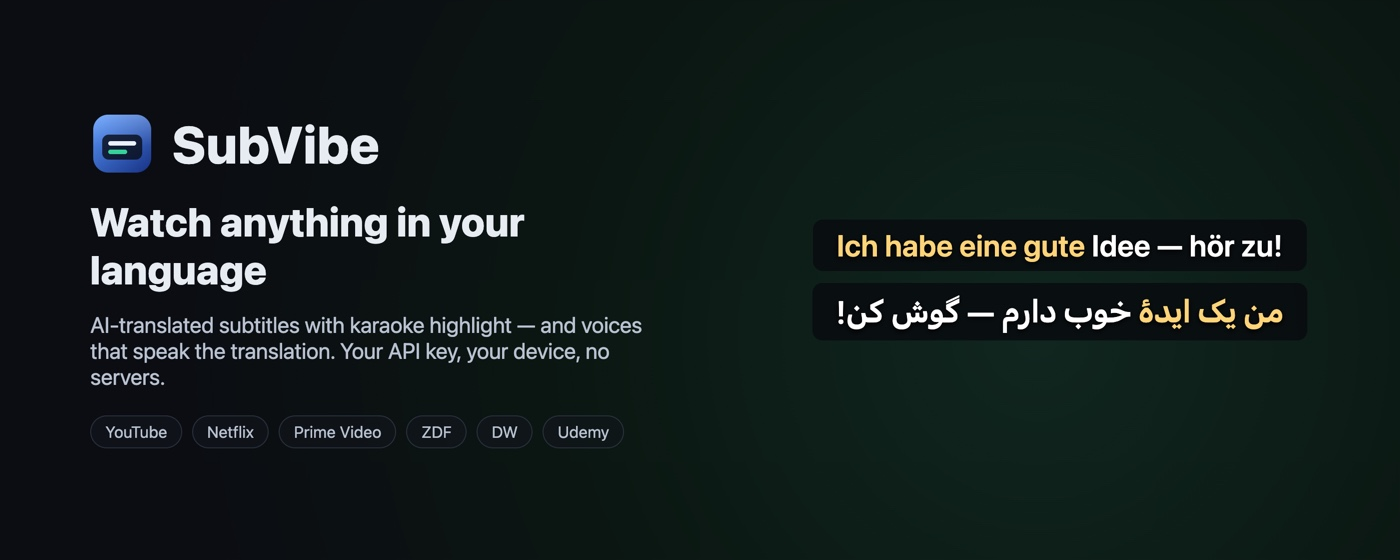
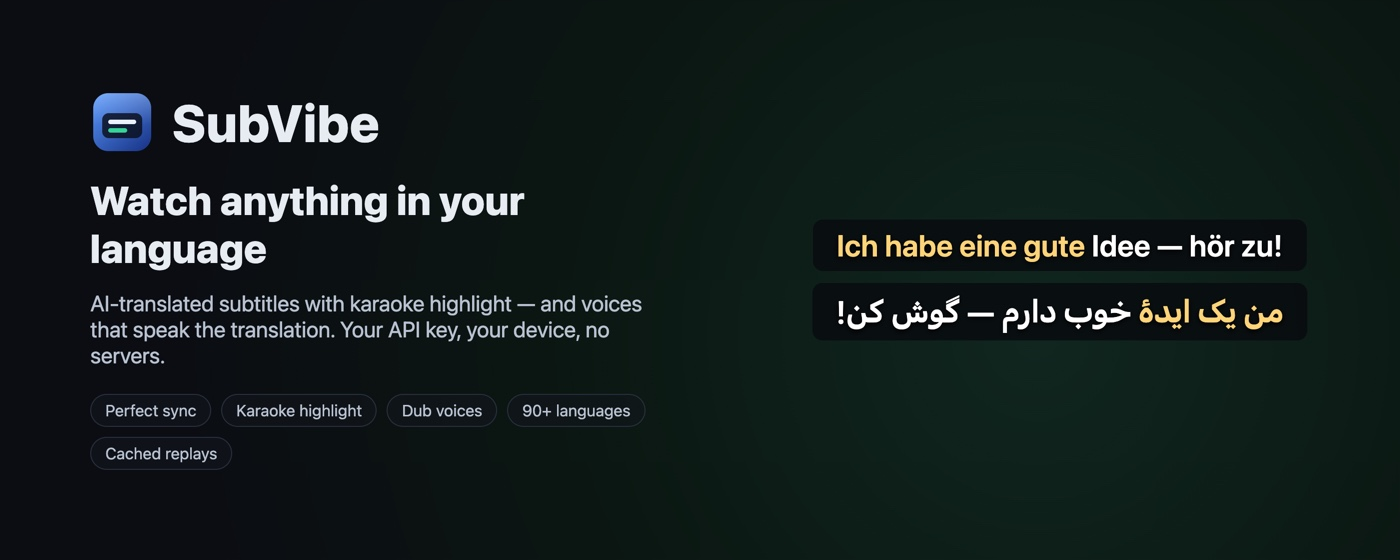
The store said Yellow Argon: the supported-sites enumeration read as keyword spam. The listing description now lives in the repo with a one-mention-per-brand house rule baked into its header, and the marquee tile trades its six site chips for feature chips — regenerated at exact 1400x560

Changed region(s): [[0.0614, 0.1518, 0.4607, 0.85]]

diff --git a/tools/store-screenshots/promo-marquee.html b/tools/store-screenshots/promo-marquee.html
@@ -29,7 +29,10 @@
     <div class="head"><img src="../../icons/icon-128.png" alt=""><span>SubVibe</span></div>
     <h1>Watch anything in your language</h1>
     <div class="tag">AI-translated subtitles with karaoke highlight — and voices that speak the translation. Your API key, your device, no servers.</div>
-    <div class="chips"><span class="chip">YouTube</span><span class="chip">Netflix</span><span class="chip">Prime Video</span><span class="chip">ZDF</span><span class="chip">DW</span><span class="chip">Udemy</span></div>
+    <!-- Feature chips, not site brands: a brand list in promo art reads as
+         keyword spam to store reviewers (the description was flagged for
+         exactly that enumeration). -->
+    <div class="chips"><span class="chip">Perfect sync</span><span class="chip">Karaoke highlight</span><span class="chip">Dub voices</span><span class="chip">90+ languages</span><span class="chip">Cached replays</span></div>
   </div>
   <div class="right">
     <div class="cap de"><b>Ich habe eine gute</b> Idee — hör zu!</div>

diff --git a/tools/store-listing.md b/tools/store-listing.md
@@ -1,0 +1,58 @@
+# Chrome Web Store listing — description (EN)
+
+Versioned here since the 2026-08-01 rejection (violation "Keyword Spam",
+reference "Yellow Argon"): the reviewer flagged the supported-sites
+enumeration ("YouTube, Netflix, ZDF, Deutsche Welle, Amazon Prime Video, and
+Udemy") as excessive keywords. HOUSE RULE for this listing, learned the hard
+way: **each third-party brand name appears AT MOST ONCE in the entire
+description, inside a normal sentence — never as a list, chips row, or
+repeated block. No brand names in promo images** (the marquee tile's site
+chips were replaced with feature chips the same day). Screenshots of the
+product UI are fine.
+
+Paste everything below the line into Store listing → Description.
+
+---
+
+Watch any video in your language. SubVibe translates a video's subtitles with
+AI while you watch — perfectly timed to the player, with a karaoke highlight
+that lights up each word as it's spoken, and optional AI voices that read the
+translation aloud.
+
+Bring your own API key (OpenAI, Anthropic, or Google). Translations go
+directly from your browser to the provider you picked — no SubVibe servers,
+no account, no tracking. A typical hour of video costs a few cents, and
+results are cached on your device, so rewatching is free.
+
+What it does
+
+• Perfectly synced subtitles — reads the video's own caption track and
+  translates ahead of the playhead, so lines appear exactly on time
+• Karaoke word highlight — follow along word by word as it's spoken, made
+  for language learners
+• Dub Mode — natural AI voices speak the translation, with multi-speaker
+  voices and adjustable pace
+• 90+ target languages, up to two at once (say, English plus your native
+  language)
+• Style presets and full custom control: font, size, colors, position — drag
+  the subtitles anywhere
+• Sync dock for time-shifted live streams; recorded videos stay frame-exact
+  automatically
+• Local library and cache — every translated video is saved on your device;
+  replays are instant and free
+• Cost meter — see what today's watching actually cost (usually cents)
+
+Where it works
+
+Runs on the players of YouTube, Netflix, Prime Video, ZDF, DW, and Udemy,
+with more sites on the way. On other pages the extension stays completely
+inactive.
+
+Privacy
+
+Your keys and your cache never leave your device. Subtitle text is sent only
+to the AI provider you configured, with your own key. No analytics, no
+tracking, no middleman. Full policy: see the Privacy link on this page.
+
+Made with care by an independent developer. Version numbers honor the
+maker's father — that's why they start at 1330.
